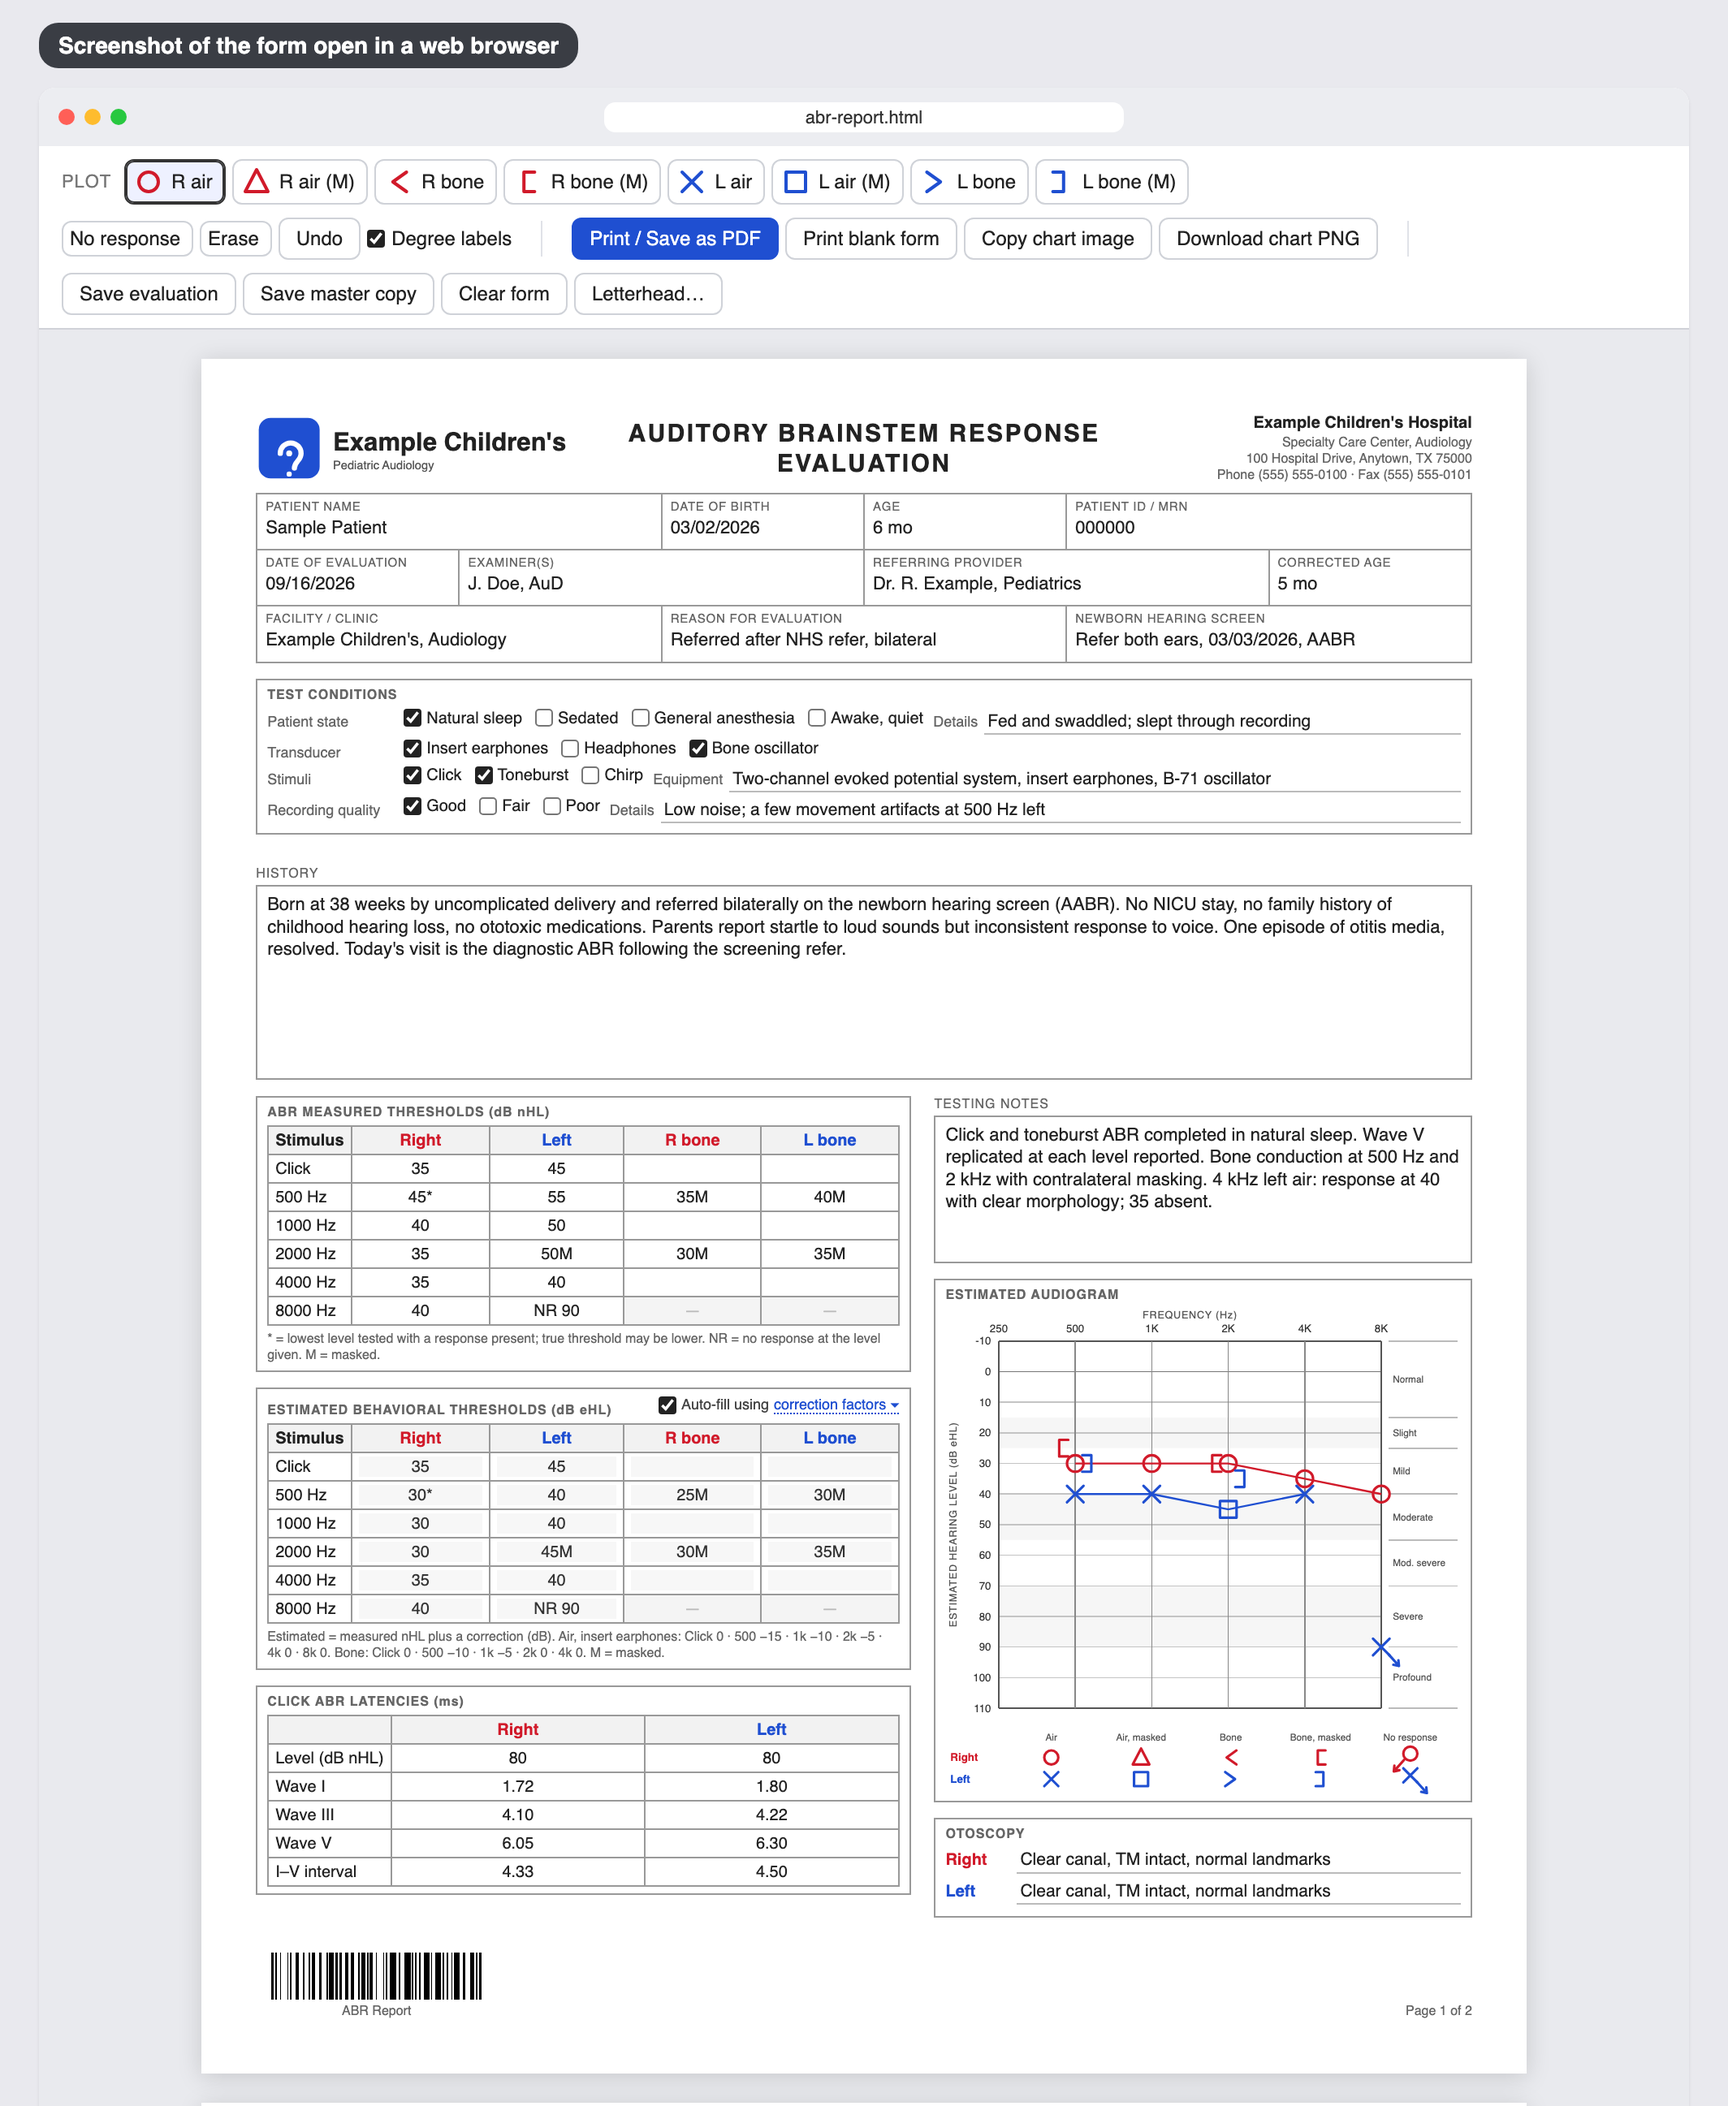
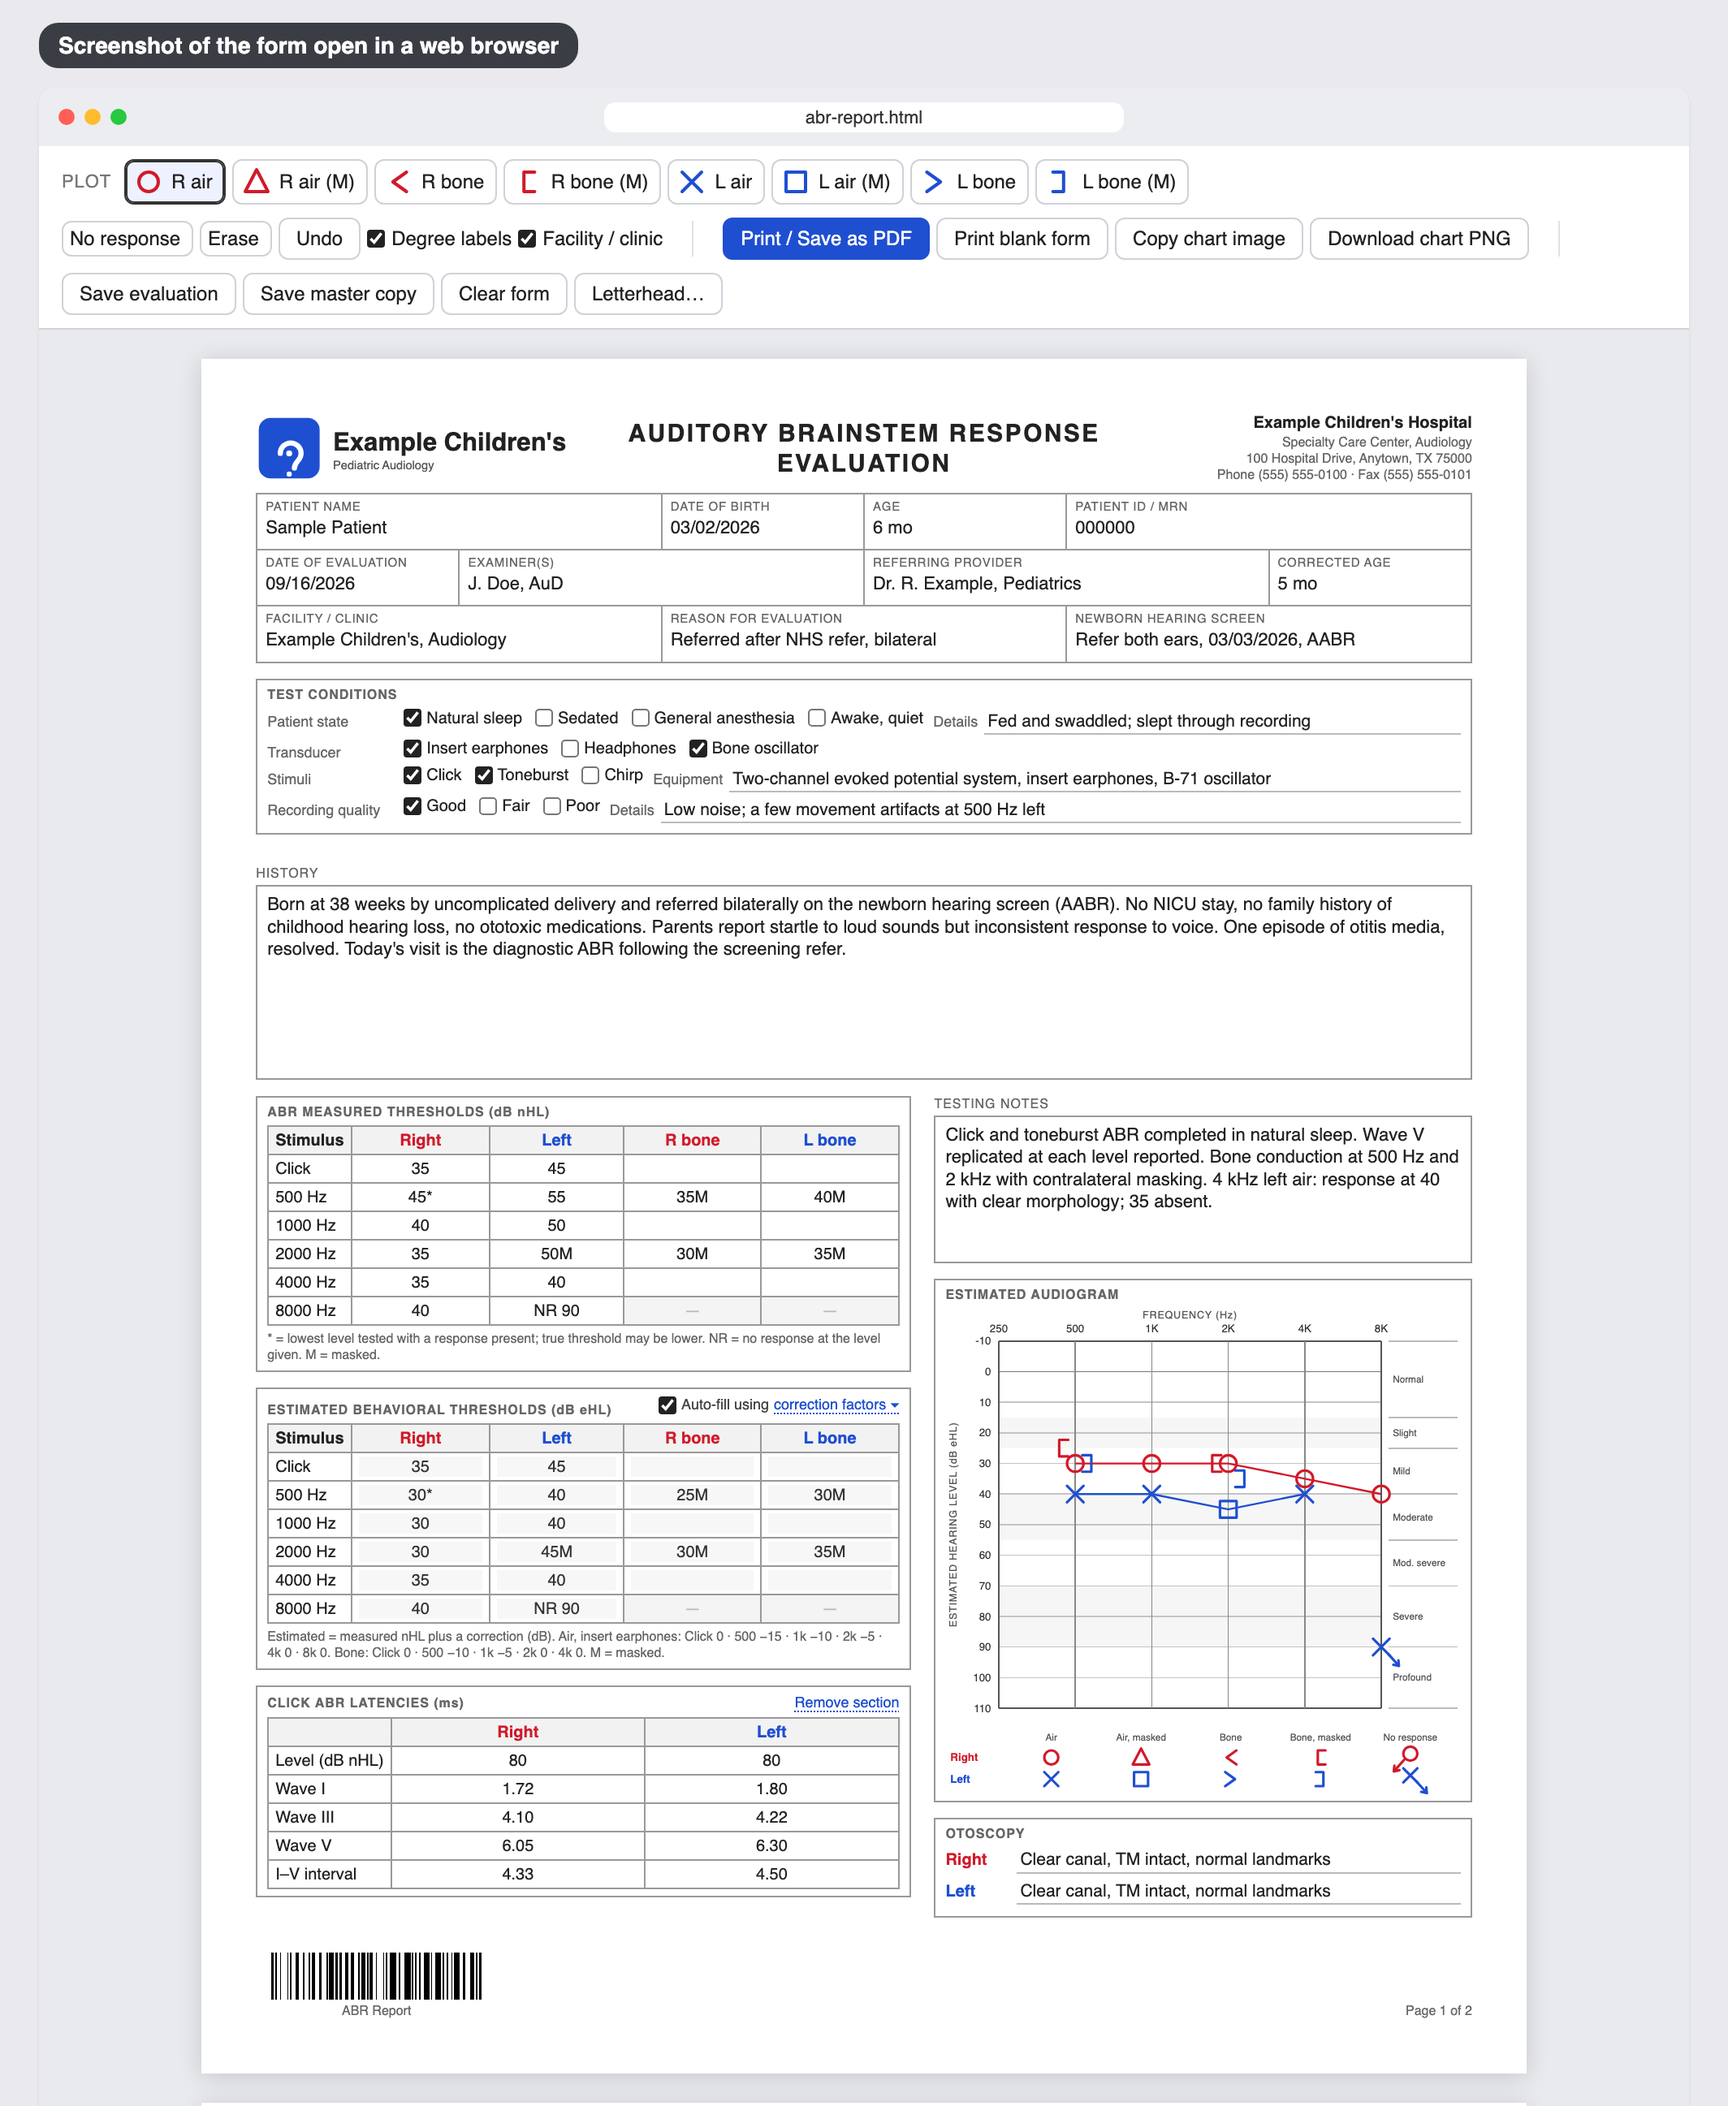
ABR report: optional-part switches move out of the Letterhead panel
- Click ABR latencies: a screen-only "Remove section" link in the table's
  title bar, and a "+ Add click ABR latencies" button in its place while
  it's off, following the EHDI report's optional sections. Typed values are
  kept while it's off.
- Facility / clinic: a toolbar checkbox next to Degree labels.
- Both still set settings.show, saved in the master copy; toggling marks
  the report changed. The Letterhead panel is back to letterhead only.
- The grid's last-box margin rule is now :last-of-type, since the + Add
  button (a <p>) follows the latency box. Print fit unchanged: page 1 has
  0.146 in to spare in both layouts.
- README sentence and the on-screen screenshot updated.

Changed region(s): [[0.1551, 0.8119, 0.5273, 0.9056], [0.3102, 0.0937, 0.8684, 0.1249]]

diff --git a/abr-report.html b/abr-report.html
@@ -80,7 +80,7 @@ table.results td input:focus{background:#f5f7ff}
 table.results td input.calc{background:#f7f7f7;color:#333}
 .foot{font-size:8px;color:var(--muted);margin-top:3px;line-height:1.3}
 .thr{display:grid;grid-template-columns:1fr 3.45in;gap:0.15in;margin-top:0.1in;align-items:start}
-.thr .box:last-child{margin-bottom:0}
+.thr .box:last-of-type{margin-bottom:0}   /* the + Add button after the latency box is a <p>, not a div */
 #chart{width:100%;height:auto;display:block;cursor:crosshair;touch-action:none}
 #chart.erase{cursor:not-allowed}
 #key{width:100%;height:auto;display:block;margin-top:2px}
@@ -103,7 +103,11 @@ body.hide-latencies #history{min-height:1.5in}
 body.hide-latencies #notesWrap{flex:1 0 auto;display:flex;flex-direction:column}
 body.hide-latencies #notesWrap .comments-label{margin-top:0.1in}
 body.hide-latencies #testingNotes{flex:1 0 auto;margin-bottom:0;min-height:0.7in}   /* full width: more room than 0.95in in the column */
-body.hide-facility #fFacility,body.hide-latencies #boxLatencies{display:none}
+body.hide-facility #fFacility,body.hide-latencies #boxLatencies,body:not(.hide-latencies) #latAdd{display:none}
+/* + Add, as on the EHDI report */
+.addbar{margin:0;padding:2px 0}
+.addbar button.add{padding:5px 10px;border:1px dashed #9aa3bd;border-radius:6px;background:#f7f8fc;cursor:pointer;font:12px -apple-system,"Segoe UI",Helvetica,Arial,sans-serif;color:#1f3a8a}
+.addbar button.add:hover{background:#eef1fb;border-style:solid}
 body.hide-facility #fReason{grid-column:span 4}
 .box h2 .ctl select{font:inherit;color:#222;max-width:1.75in;border:1px solid #cfd2d8;border-radius:4px;padding:0 2px;background:#fff}
 .rec{margin-top:2px}
@@ -194,6 +198,7 @@ dialog#corrDialog{width:420px}
     <button class="sym-btn" id="btnErase" title="Click a symbol on the chart to clear its table cell">Erase</button>
     <button class="tb" id="btnUndo" title="Undo last chart change (Ctrl/Cmd+Z)">Undo</button>
     <label class="tb-check"><input type="checkbox" id="chkBands" checked> Degree labels</label>
+    <label class="tb-check" title="Shows the Facility / clinic field on page 1. Untick to leave it off; Reason for evaluation takes its space. Save a master copy to keep the choice."><input type="checkbox" id="chkFacility" checked> Facility / clinic</label>
   </div>
   <div class="sep"></div>
   <div class="tb-group">
@@ -207,7 +212,7 @@ dialog#corrDialog{width:420px}
     <button class="tb" id="btnSave" title="Downloads a copy of this form with everything filled in, so you can reopen it later">Save evaluation</button>
     <button class="tb" id="btnMaster" title="Downloads a blank copy with your letterhead and correction factors built in. Use it instead of this file from now on, or give it to a colleague.">Save master copy</button>
     <button class="tb" id="btnNew">Clear form</button>
-    <button class="tb" id="btnLetterhead" title="Logo, office contact lines, signer name, a document barcode, and the optional parts of the form.">Letterhead…</button>
+    <button class="tb" id="btnLetterhead" title="Logo, office contact lines, signer name, and a document barcode.">Letterhead…</button>
   </div>
   <div class="status" id="status"></div>
 </div>
@@ -283,7 +288,7 @@ dialog#corrDialog{width:420px}
         <div class="foot" id="ehlFoot"></div>
       </div>
       <div class="box" id="boxLatencies">
-        <h2><span>Click ABR latencies (<span class="u">ms</span>)</span></h2>
+        <h2><span>Click ABR latencies (<span class="u">ms</span>)</span><span class="ctl screen-only"><button type="button" class="linkbtn" id="latRemove" title="Takes the table off the form. Otoscopy moves above the chart, Testing notes runs full width, and History gets taller.">Remove section</button></span></h2>
         <table class="results">
           <tr><th></th><th class="r">Right</th><th class="l">Left</th></tr>
           <tr><td>Level (dB nHL)</td><td class="n"><input data-field="latLevelR"></td><td class="n"><input data-field="latLevelL"></td></tr>
@@ -293,6 +298,7 @@ dialog#corrDialog{width:420px}
           <tr><td>I–V interval</td><td class="n"><input data-field="latIVR"></td><td class="n"><input data-field="latIVL"></td></tr>
         </table>
       </div>
+      <p class="addbar screen-only" id="latAdd"><button type="button" class="add" id="latAddBtn">+ Add click ABR latencies</button></p>
     </div>
     <div id="rightCol">
       <div id="notesWrap">
@@ -411,12 +417,6 @@ dialog#corrDialog{width:420px}
     <input type="text" id="lhDocId" maxlength="16" placeholder="e.g. ABR Report">
     <div class="hint">Prints as a barcode at the bottom left, for records systems that file by document type. Keep it short. Leave blank if your office doesn't use one.</div>
     <div class="inline"><label for="lhBcPages">On page</label><select id="lhBcPages"><option value="first">First</option><option value="last">Last</option><option value="all">All</option></select></div>
-  </div>
-  <div class="row">
-    <label class="t">Optional parts of the form</label>
-    <label class="chk"><input type="checkbox" id="optFacility"> Facility / clinic</label>
-    <label class="chk"><input type="checkbox" id="optLatencies"> Click ABR latencies</label>
-    <div class="hint">Untick one to leave it off. Without Facility, Reason for evaluation takes its place. Without latencies, Otoscopy moves above the chart, Testing notes runs full width, and History gets taller.</div>
   </div>
   <div class="foot">
     <button class="tb" id="lhMaster" title="Downloads a blank copy of this form with your letterhead and correction factors built in. Use it instead of this file from now on, or give it to a colleague.">Save master copy</button>
@@ -693,10 +693,13 @@ function applyShow(){
   const rc=$('#rightCol'), nw=$('#notesWrap'), oto=$('#boxOto');
   if(settings.show.latencies){ rc.prepend(nw); rc.append(oto); }
   else { rc.prepend(oto); $('.thr').after(nw); }
-  $('#optFacility').checked=settings.show.facility; $('#optLatencies').checked=settings.show.latencies;
+  $('#chkFacility').checked=settings.show.facility;
 }
-$('#optFacility').addEventListener('change',e=>{ settings.show.facility=e.target.checked; settingsDirty=true; applyShow(); setStatus('Save a master copy to keep this.',3000); });
-$('#optLatencies').addEventListener('change',e=>{ settings.show.latencies=e.target.checked; settingsDirty=true; applyShow(); setStatus('Save a master copy to keep this.',3000); });
+// Both are clinic settings, kept in the master copy like the correction sets. Neither clears what was typed.
+function setShow(k,on,msg){ settings.show[k]=on; settingsDirty=true; markDirty(); applyShow(); setStatus(msg+' Save a master copy to keep this setting.',5000); }
+$('#chkFacility').addEventListener('change',e=>setShow('facility',e.target.checked,e.target.checked?'Facility / clinic is on the form.':'Facility / clinic is off the form.'));
+$('#latRemove').addEventListener('click',()=>setShow('latencies',false,'Click latencies removed from the form. What you typed is kept if you add them back.'));
+$('#latAddBtn').addEventListener('click',()=>{ setShow('latencies',true,'Click latencies added back.'); $('#boxLatencies').scrollIntoView({behavior:'smooth',block:'center'}); });
 
 /* ---------------- chart geometry ---------------- */
 const FREQS=[250,500,1000,2000,4000,8000];

diff --git a/README.md b/README.md
@@ -73,7 +73,7 @@ It works the same way as the audiogram: one file, opens in any browser, prints t
   - **BSA 2021 values.** **Fill in the BSA 2021 values** creates the four corrected-age groups from the British Society of Audiology's 2021 guidance for tone pip and click ABR. Check them against your own protocol. BSA has no 8000 Hz values, and it gives bone click before 12 weeks by gestational age, so those boxes start blank.
   - **High thresholds.** A set can make its air corrections 5 dB smaller above 70 dB nHL (−15 becomes −10). This follows the Ontario Infant Hearing Program, which uses it when the final step size was 5 dB. Corrections of 0 or more don't change.
 - **The audiogram draws itself** from the estimated table, with masked symbols where you marked them.
-- **Page 1** also holds the history, testing notes, click latencies, and otoscopy. If your equipment prints latencies with the waveforms, untick **Click ABR latencies** in the Letterhead panel. Otoscopy then moves above the chart, Testing notes runs full width, and History gets taller. The same panel can leave off **Facility / clinic**, and Reason for evaluation takes its space. **Page 2** holds otoacoustic emissions, immittance, a summary of hearing status, the interpretation, a recommendations checklist, and the signature. Two recommendations ask a follow-up question when ticked: whether a hearing aid consult was completed today, and whether a cochlear implant referral was placed today.
+- **Page 1** also holds the history, testing notes, click latencies, and otoscopy. If your equipment prints latencies with the waveforms, click **Remove section** on the latency table. Otoscopy then moves above the chart, Testing notes runs full width, and History gets taller. **+ Add click ABR latencies** puts it back. To leave off **Facility / clinic**, untick it in the toolbar, and Reason for evaluation takes its space. **Page 2** holds otoacoustic emissions, immittance, a summary of hearing status, the interpretation, a recommendations checklist, and the signature. Two recommendations ask a follow-up question when ticked: whether a hearing aid consult was completed today, and whether a cochlear implant referral was placed today.
 - **Correction factors and the optional parts are saved with your letterhead.** Save a master copy (below) and a colleague who opens it gets the same sets and the same form.
 
 ## EHDI report
